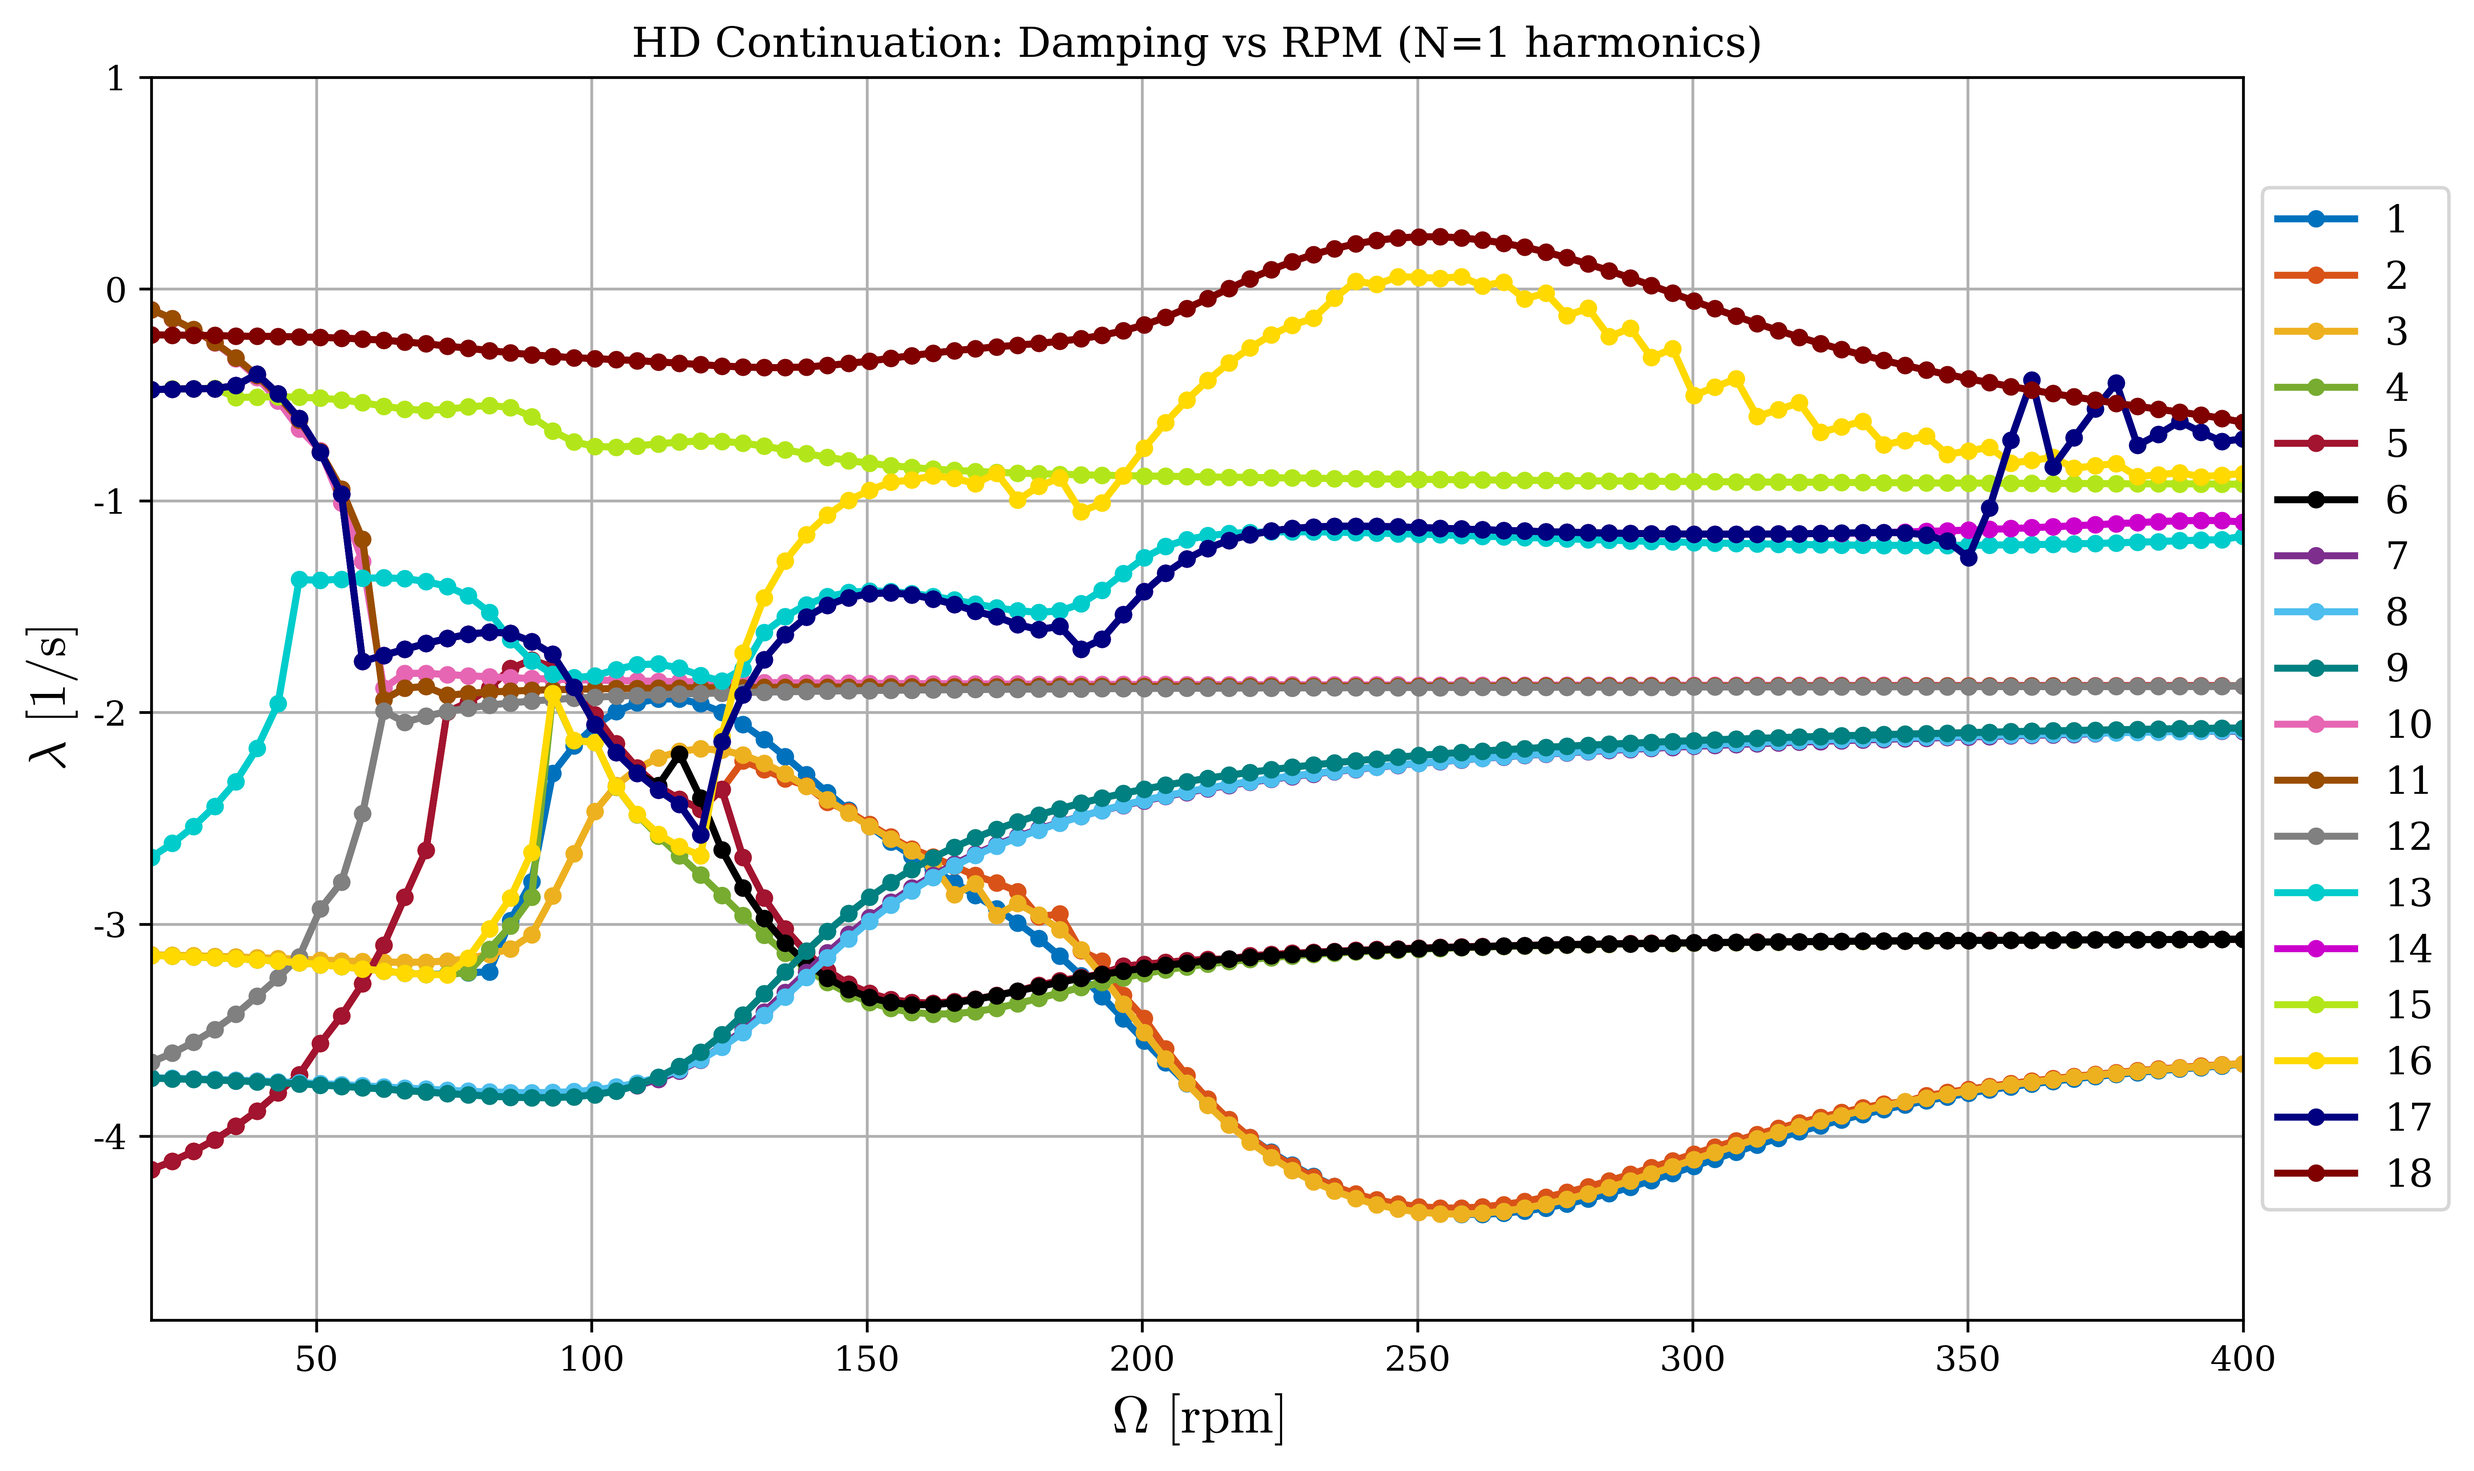
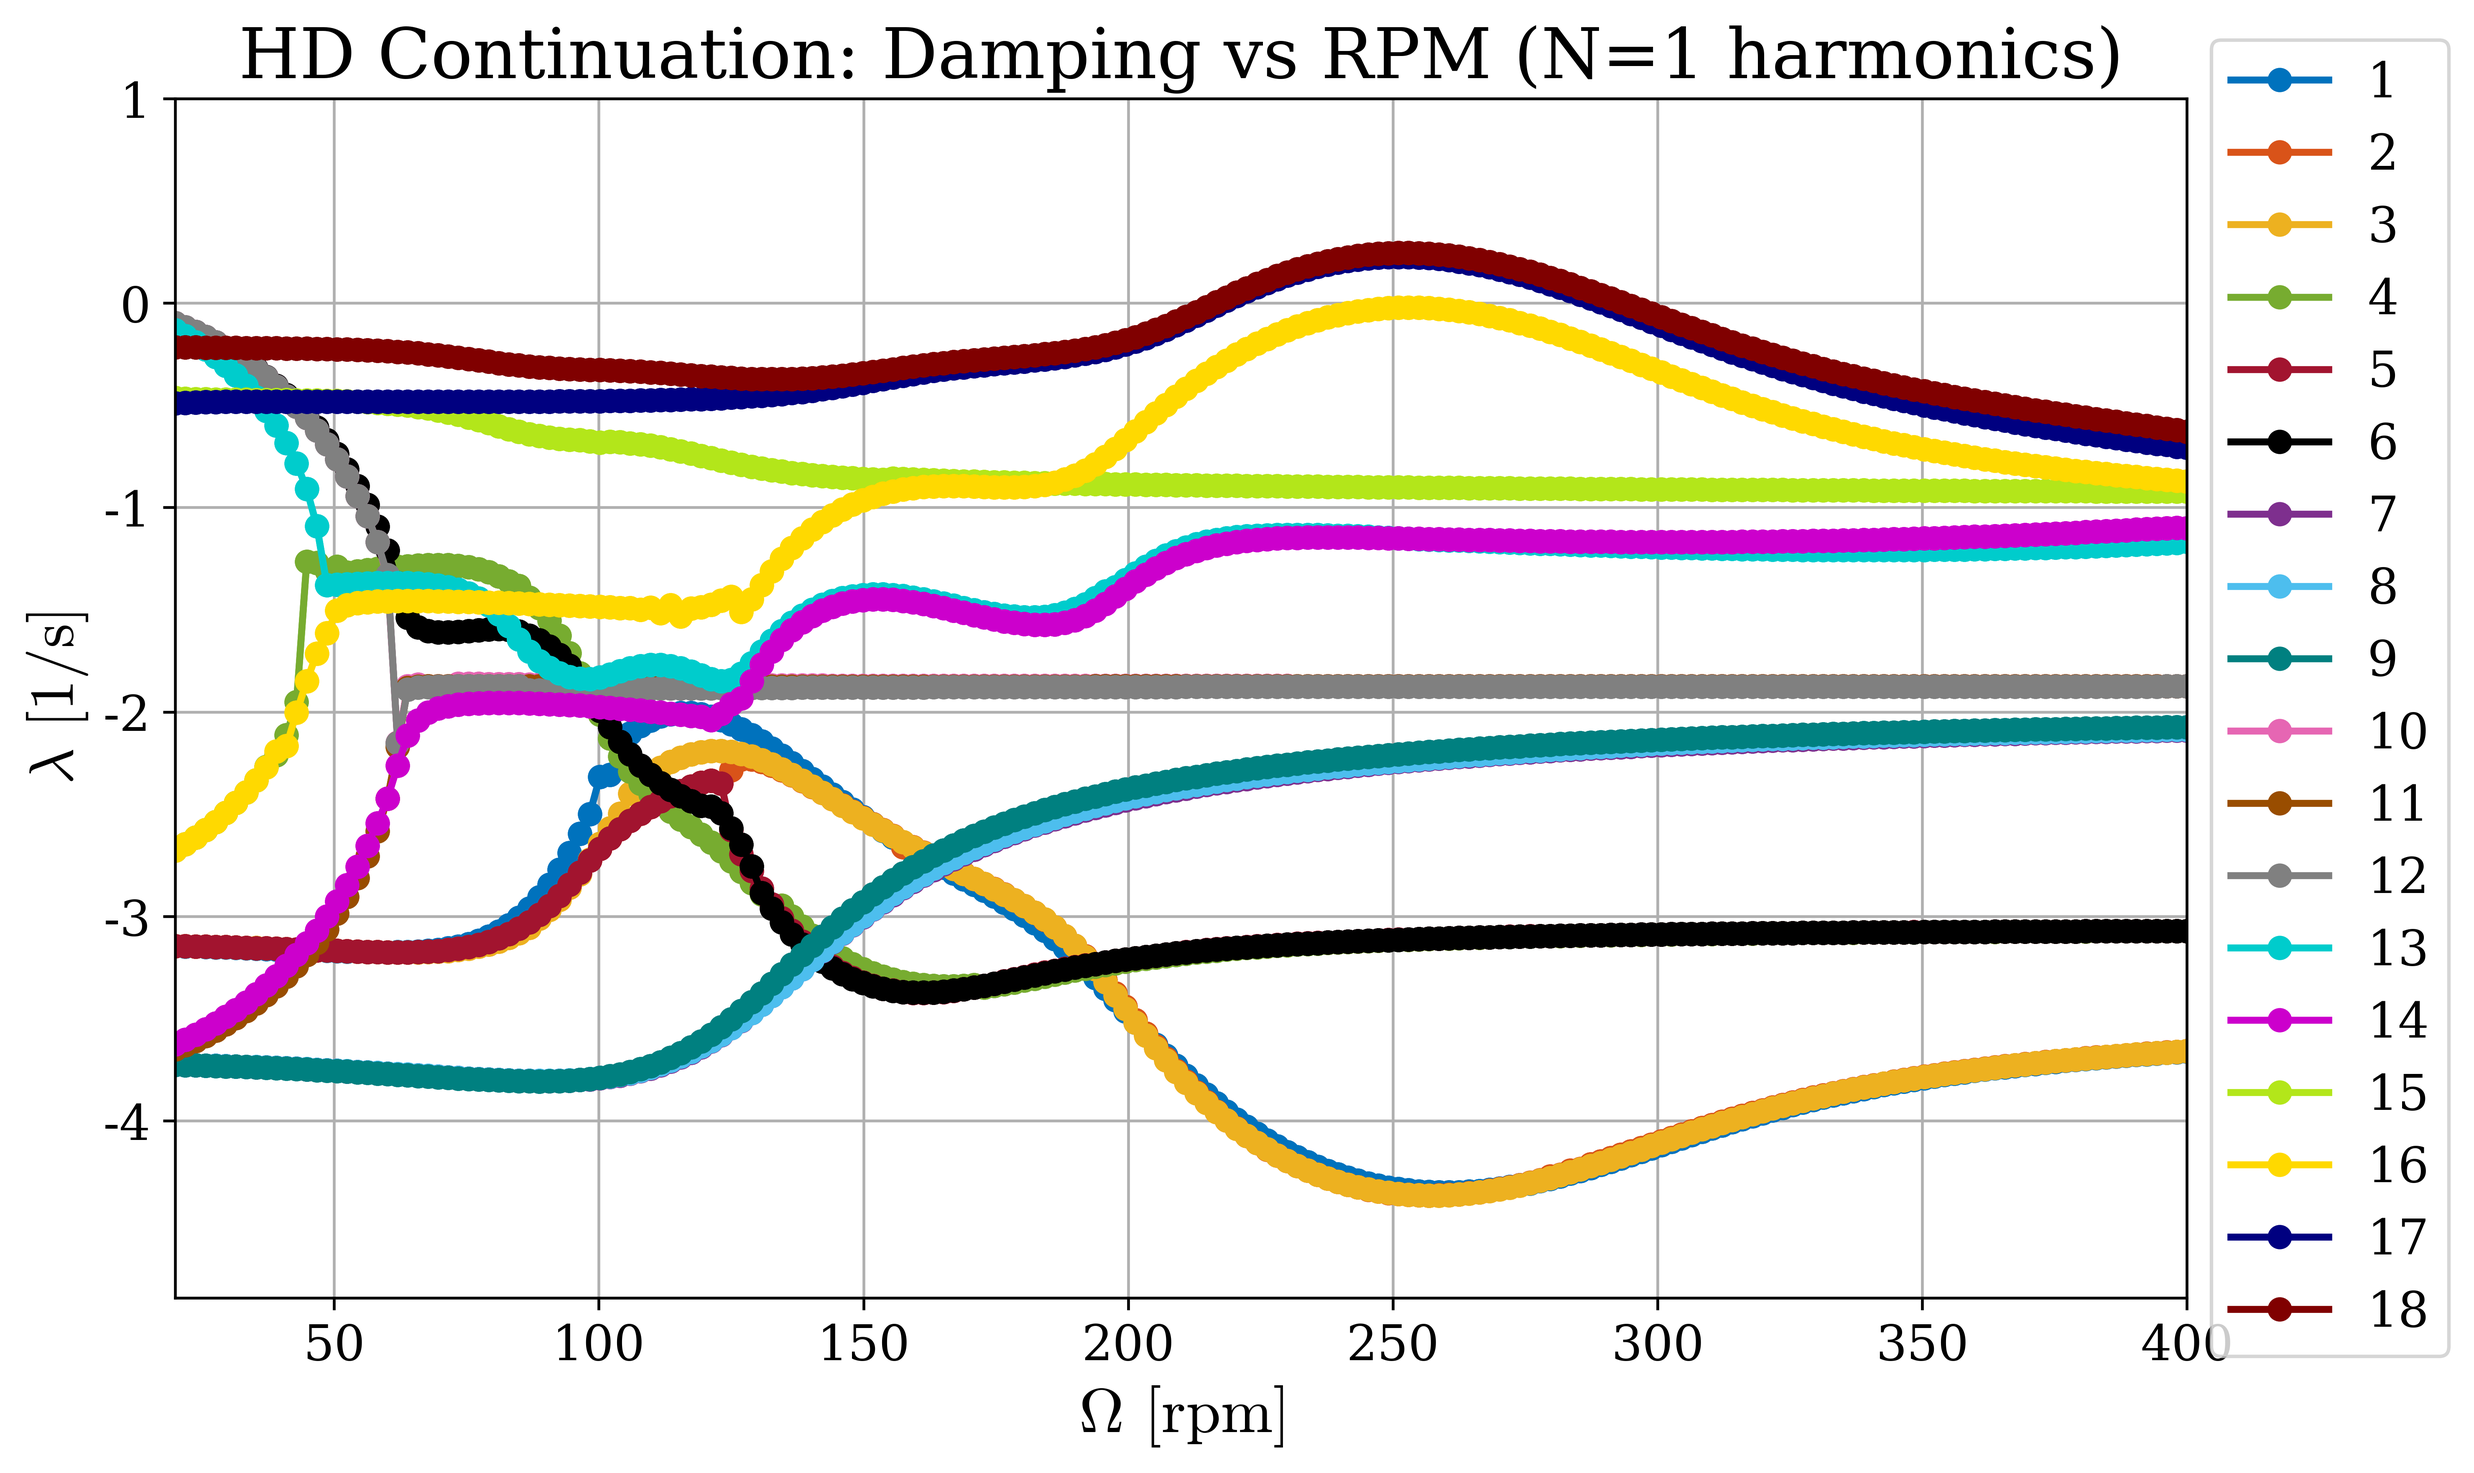
upload of images and correct tolerance for continuation method

Changed region(s): [[0.0311, 0.0929, 0.9949, 0.9912], [0.0933, 0.0, 0.9327, 0.0929], [0.0, 0.4027, 0.0622, 0.5266]]

diff --git a/src/config/problem_definition.py b/src/config/problem_definition.py
@@ -66,7 +66,7 @@ class ProblemDefinition:
     # Solution parameters
     lower_rotor_RPM: float = 20.0
     higher_rotor_RPM: float = 400.0
-    number_points: int = 100
+    number_points: int = 200
     
     # Solver configuration
     required_solver: Literal["LTI", "LTP", "HD"] = "LTI"
@@ -75,7 +75,7 @@ class ProblemDefinition:
     
     # Continuation method parameters
     continuation: Literal["YES", "NO"] = "NO"
-    continuation_tolerance: float = 1e-2
+    continuation_tolerance: float = 1e-3
     continuation_max_iter: int = 100
     step_h: float = 1e-4
     time_samples: int = 10  # must be chosen in accordance with Nyquist criterion
@@ -84,8 +84,8 @@ class ProblemDefinition:
     solution_direction: Literal["L2R", "R2L"] = "R2L"
 
     # ODE integration tolerances (for LTP monodromy matrix computation)
-    ode_rtol: float = 1e-4  # relative tolerance
-    ode_atol: float = 1e-6  # absolute tolerance
+    ode_rtol: float = 1e-5  # relative tolerance
+    ode_atol: float = 1e-7  # absolute tolerance
     
     # Rotor physical characteristics
     rotor_characteristics: RotorCharacteristics = field(default_factory=RotorCharacteristics)

diff --git a/main_parametric_analysis_test.py b/main_parametric_analysis_test.py
@@ -41,7 +41,8 @@ def main():
     # Create base problem with all dampers active (symmetric -> LTI valid)
     problem = create_default_problem()
     problem.damper_activation = "ALL"
-    problem.number_blades = 4
+    problem.number_blades = 1
+    problem.number_harmonics = 1
 
     print(f"Configuration:")
     print(f"  - Number of blades: {problem.number_blades}")
@@ -162,7 +163,6 @@ def main():
     problem_custom = create_default_problem()
     problem_custom.damper_activation = "CUSTOM"
     problem_custom.damper_activation_vector = np.array([1.0, 1.0, 1.0, 1.0])
-
     print(f"Configuration:")
     print(f"  - Damper activation: {problem_custom.damper_activation}")
     print(f"  - Initial activation vector: {problem_custom.damper_activation_vector}")
@@ -172,6 +172,7 @@ def main():
         """Set the first damper to a fraction of nominal, others remain at 100%."""
         problem.damper_activation = "CUSTOM"
         problem.damper_activation_vector = np.array([ratio, 1.0, 1.0, 1.0])
+        
 
     # Sweep parameters
     omega_sweep = np.linspace(100, 350, 40)

diff --git a/tests_to_run.py b/tests_to_run.py
@@ -1,0 +1,16 @@
+# this file contains tests to run, generate plots and save them in a special folder "extra-figures"
+
+# Instructions:
+
+#run the test and generate the plots which compare the C1/Cd ratio for the two methods (as the last example in the main_parametric_analysis_test)
+#generate in this file the call for all these tests
+# separate clearly the tests
+
+# common plot characteristics:
+# no title
+# same options as in the test example for the parametric analysis
+
+
+# tests to run with parametric analysis 
+# H2B configuration with 4 blades (1 harmonic), 5 blades (2 harmonics) and 7 blades (3 harmonics) 
+# H2B configuration with 4 blades (1 harmonic) with custom damper activation: two dampers (in adjacent and opposite position in the rotor) fail with a C1 and C2 decreasing equally 

diff --git a/main_hd_continuation_test.py b/main_hd_continuation_test.py
@@ -91,6 +91,7 @@ def main():
     # Override to ensure HD solver with continuation is used
     rotor.problem.required_solver = "HD"
     rotor.problem.hd_use_complex = True
+    
     rotor.problem.damper_activation = "ODI"
     rotor.problem.continuation = "YES"
     rotor.problem.number_harmonics = 1  # Start with 1 harmonic
